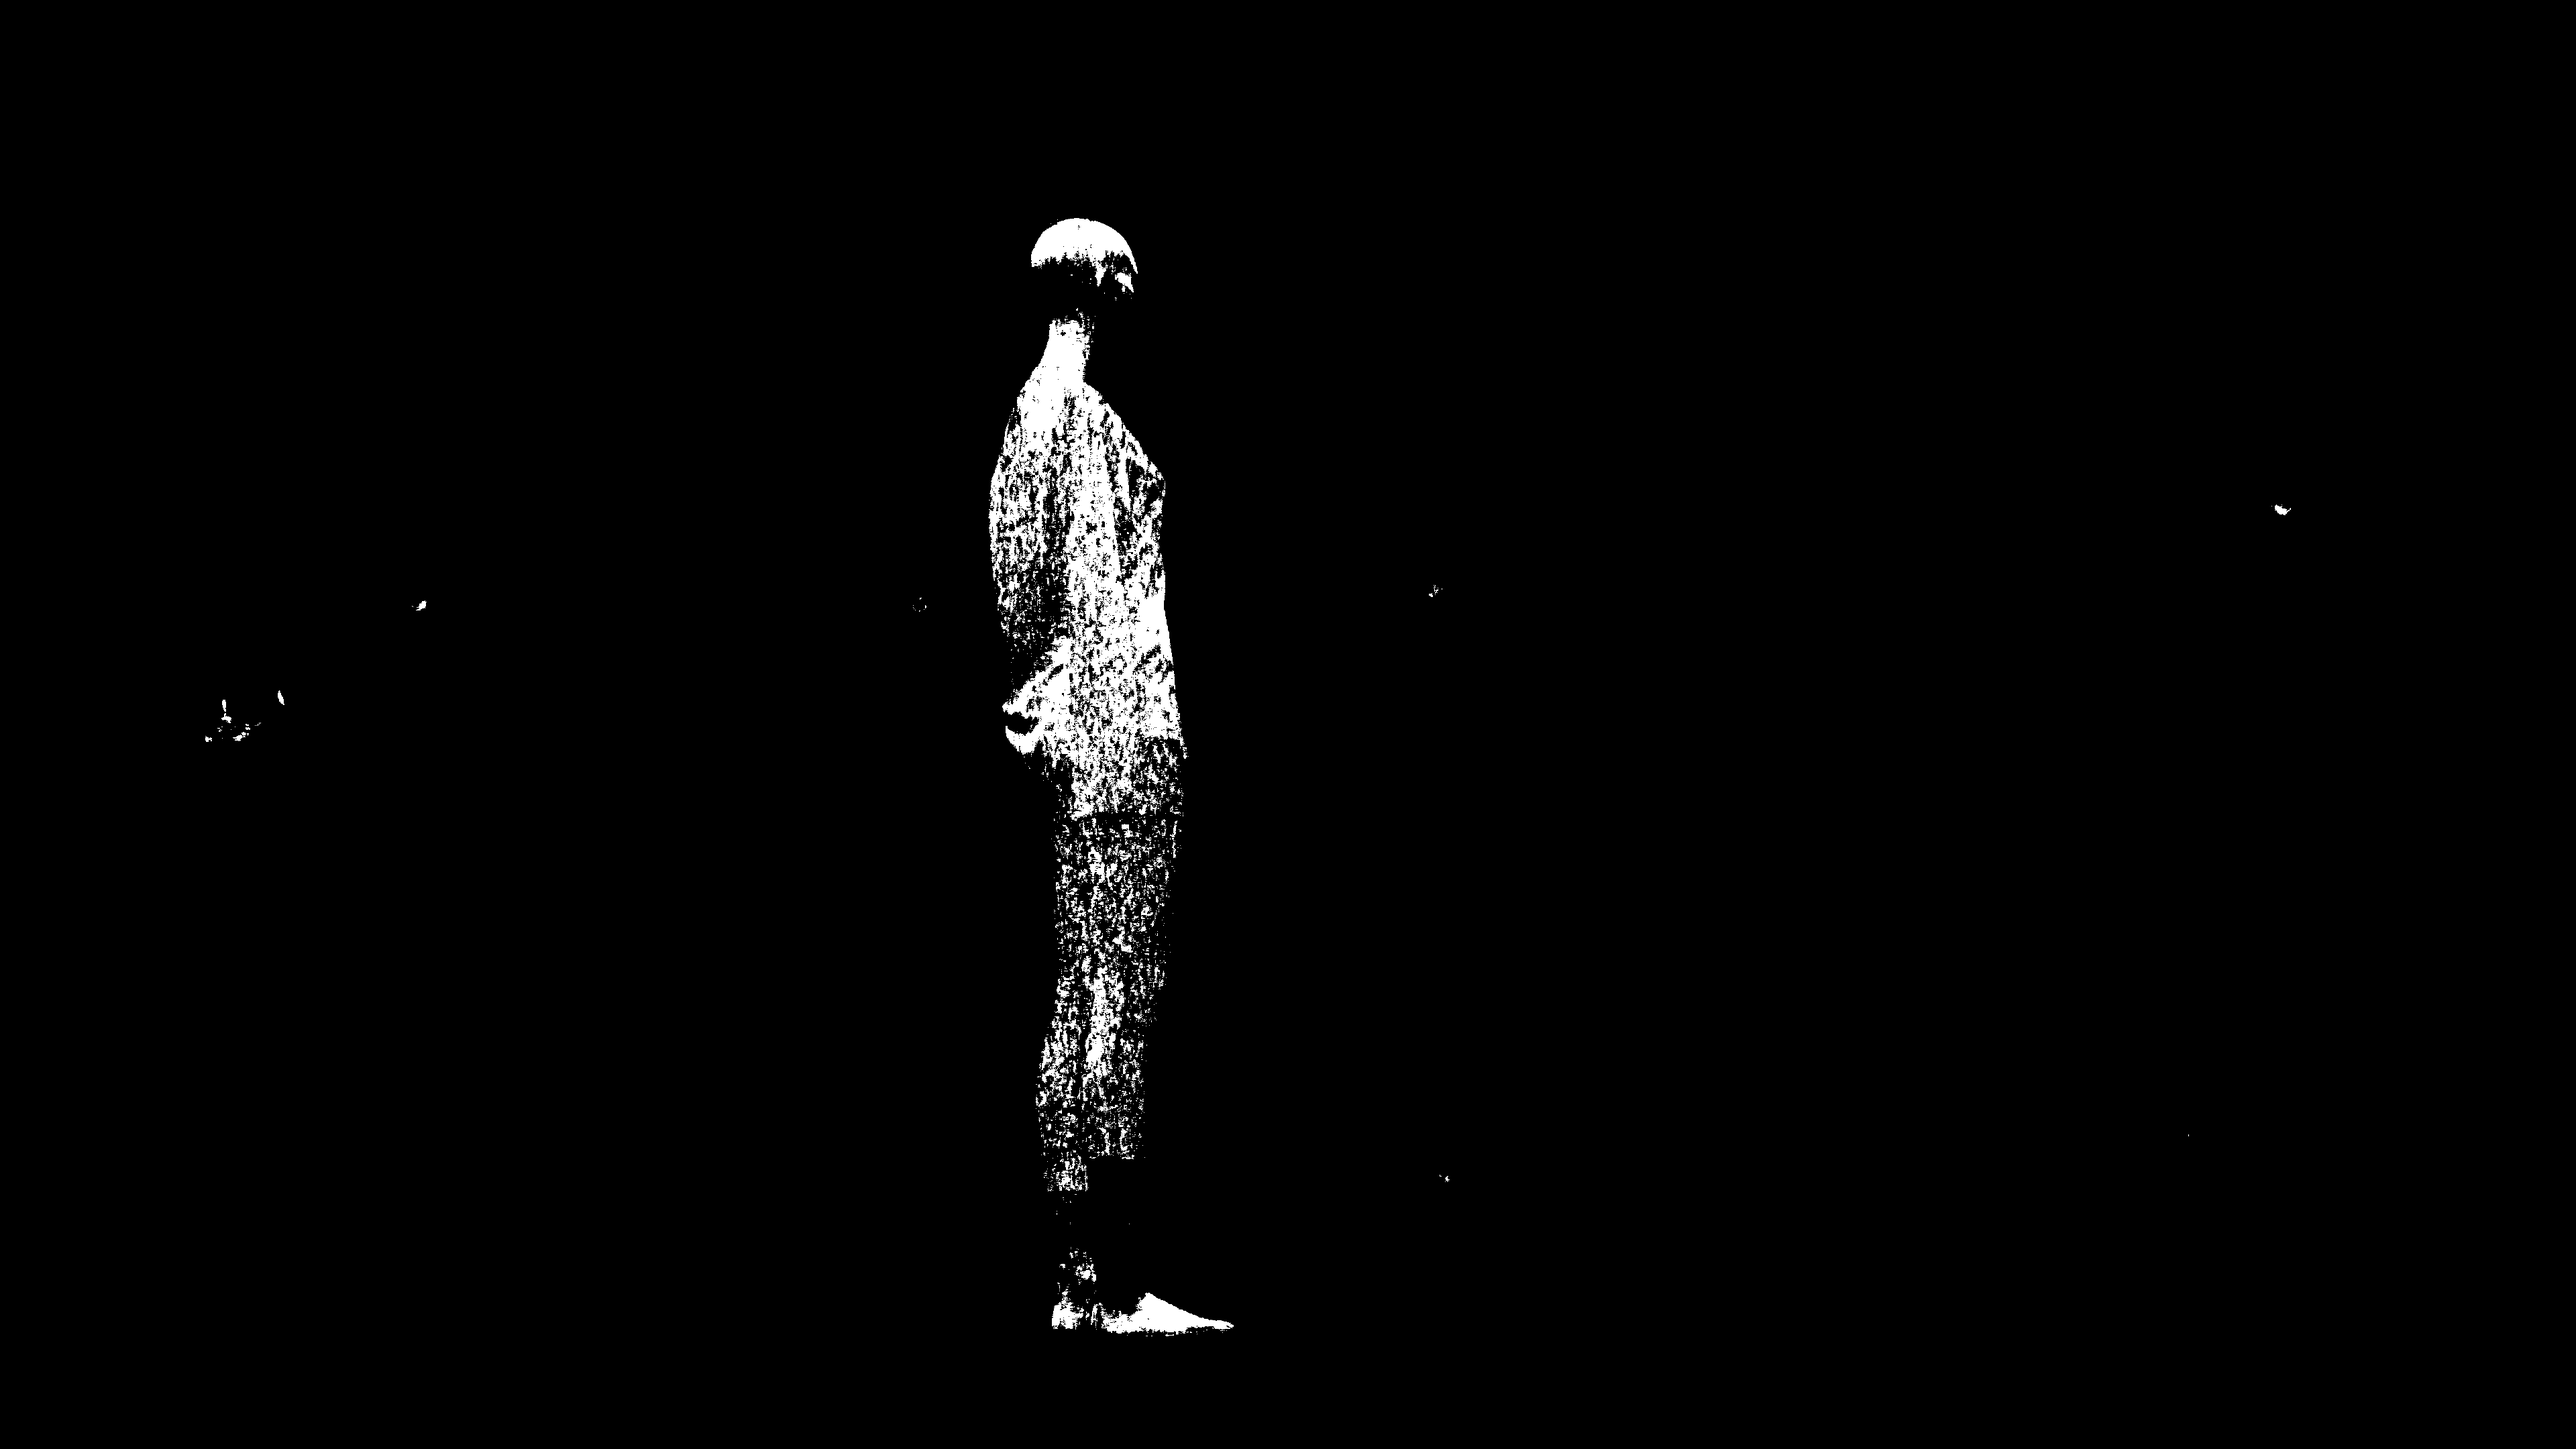
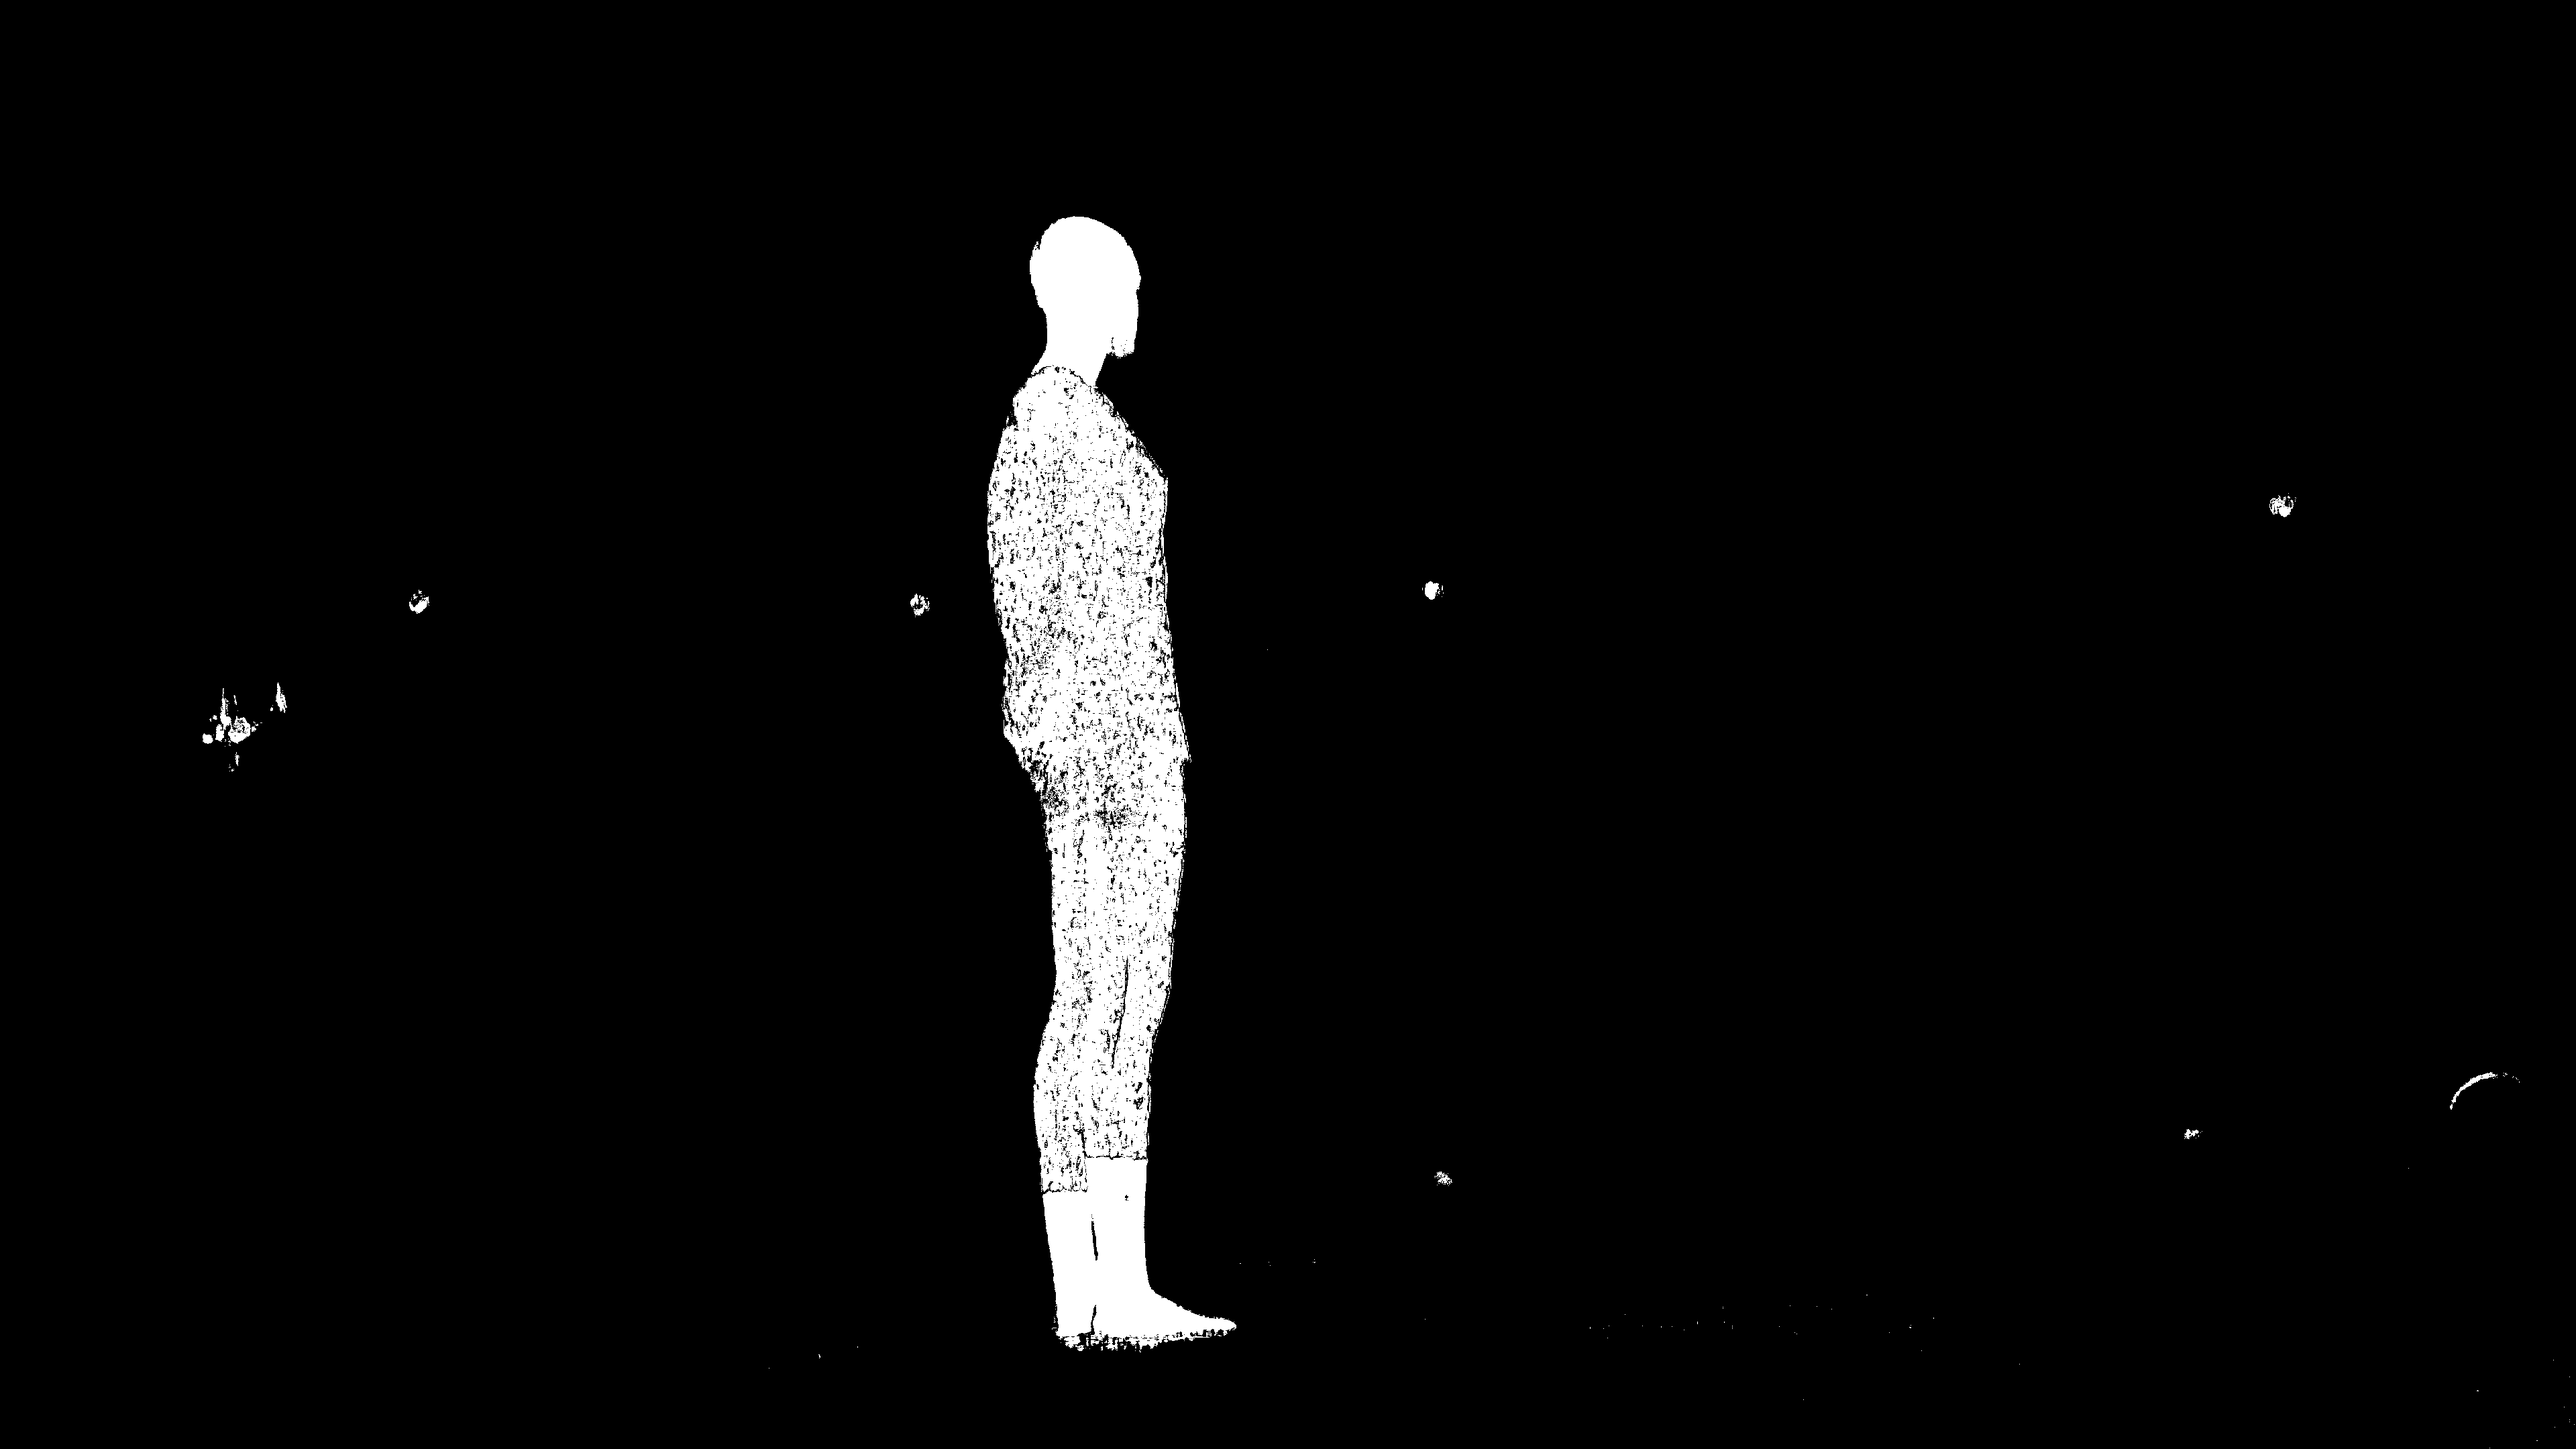
[master] Fix filter for large view

Changed region(s): [[0.375, 0.1551, 0.4688, 0.9306], [0.0625, 0.4963, 0.0938, 0.5273]]

diff --git a/mywork.py b/mywork.py
@@ -26,36 +26,28 @@ def RGB2HSV_Pixel(rgbPixel):
     return computeHue(r, g, b, delta, colorMax), computeSaturation(delta, colorMax), colorMax
 
 
-def greenFilter(in_img):
+def normalViewGreenFilter(h, s, out_img_nvgf, x, y):
+    # Normal green screen filter
+    if s < 0.3 or h <= 95. or h >= 140.:
+        out_img_nvgf[y, x] = (255, 255, 255)
+
+
+def largeViewGreenFilter(h, s, out_img_lvgf, x, y):
+    # Large view green screen filter
+    if s < 0.45 and (h <= 95. or h >= 125.):
+        out_img_lvgf[y, x] = (255, 255, 255)
+
+
+def computeGreenExtractionMask(in_img, filter):
     height, width, _ = in_img.shape
-    out_img_gf = np.zeros((height, width, 3), dtype=np.ubyte)
+    out_img = np.zeros((height, width, 3), dtype=np.ubyte)
     for y in range(0, height):
         for x in range(0, width):
-            h, s, v = RGB2HSV_Pixel(in_img[y, x])
+            h, s, _ = RGB2HSV_Pixel(in_img[y, x])
 
-            # Green filter
-            if not (95. <= h <= 140. and s > 0.35 and v > 0.25):
-                out_img_gf[y, x] = (255, 255, 255)
+            filter(h, s, out_img, x, y)
 
-    return out_img_gf
-
-
-def lowPassSaturationFilter(in_img):
-    height, width, _ = in_img.shape
-    out_img_lpsf = np.zeros((height, width, 3), dtype=np.ubyte)
-    for y in range(0, height):
-        for x in range(0, width):
-            h, s, v = RGB2HSV_Pixel(in_img[y, x])
-
-            # Saturation filter
-            if s <= 0.15:
-                out_img_lpsf[y, x] = (255, 255, 255)
-
-    return out_img_lpsf
-
-
-def computeGreenExtractionMask(in_img, filterParam):
-    return filterParam(in_img)
+    return out_img
 
 
 def computeGrayImg(in_img, hsvOptions):
@@ -78,6 +70,7 @@ def computeGrayImg(in_img, hsvOptions):
 
     return out_img_gray
 
+
 def computeHSVImg(in_img):
     height, width, _ = in_img.shape
     out_img_hsv = np.zeros((height, width, 3), dtype=np.float64)
@@ -86,4 +79,3 @@ def computeHSVImg(in_img):
             out_img_hsv[y, x] = RGB2HSV_Pixel(in_img[y, x])
 
     return out_img_hsv
-

diff --git a/tp1.py b/tp1.py
@@ -11,21 +11,16 @@ if __name__ == '__main__':
         print('Usage :')
         print(
             'Programme <Chemin de l\'image d\'entrée (.png)> <Chemin du repertoire pour '
-            'generer l\'image de sortie (.png)> Optionnel: <fonction de filtrage>')
+            'generer l\'image de sortie (.png)> Optionnel: <C\'est un plan large ?>')
         print(
-            'Fonction de filtrage:\n\t0 : Filtre teinte verte\n\t1 : Filtre de saturation passe bas\n\n\tPar defaut: '
-            'Filtre teinte verte')
+            'Plan large ? True or False\n\n\tPar defaut: False')
         exit()
 
-    filterFunc = mywork.greenFilter
+    filterFunc = mywork.normalViewGreenFilter
     if nbArg == 4:
-        numFilter = int(sys.argv[3])
-        if numFilter == 0:
-            filterFunc = mywork.greenFilter
-        elif numFilter == 1:
-            filterFunc = mywork.lowPassSaturationFilter
-        else:
-            filterFunc = mywork.greenFilter
+        isLargePlan = bool(sys.argv[3])
+        if isLargePlan:
+            filterFunc = mywork.largeViewGreenFilter
 
     out_img = mywork.computeGreenExtractionMask(cv2.imread(sys.argv[1]).astype(np.float64), filterFunc)
     in_filename = os.path.split(os.path.splitext(sys.argv[1])[0])[1]
